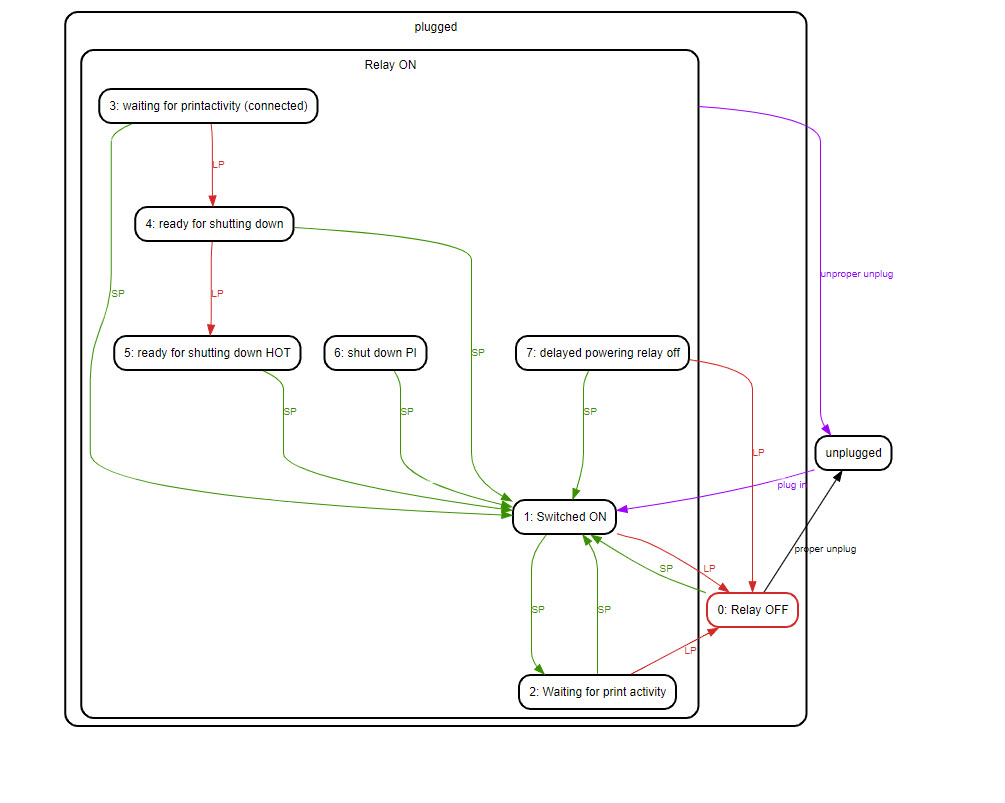
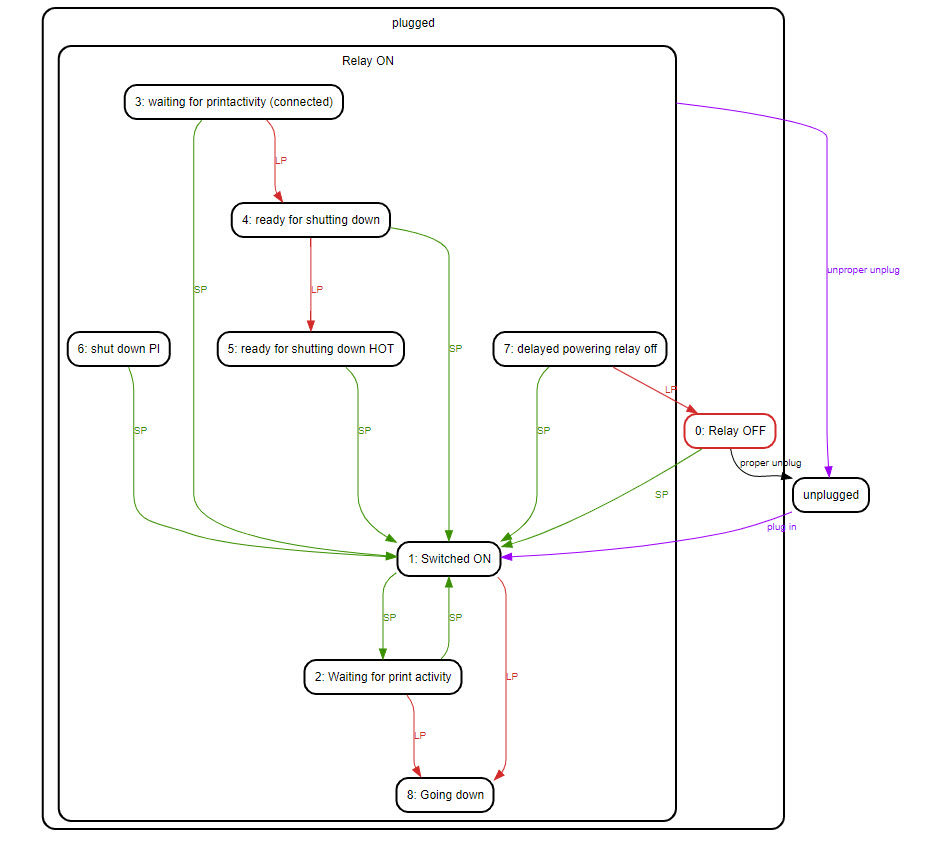
Release 1.1 - Extra state: "going down" - Parameters added for LED info extension (download and version blink pattern when booting up) - Check that the version of the configuration has all required parameters - Diagrams updated - readme.MD updated

diff --git a/README.md b/README.md
@@ -141,7 +141,12 @@ See the [LICENSE.md](LICENSE.md) file for details
 
 
 ## Release History
-* 1.0 Initial Release
+** 1.0 Initial Release
+
+** 1.1 Extra features
+- Extra state: "going down"
+- Parameters added for LED info extension (download and version blink pattern when booting up)
+- Check that the version of the configuration has all required parameters
 
 ## Requests / Future To Do List
 - Avoid switching off if Octoprint is running and not shutdown: even if you try to force it, with a non-monitored "long press"
